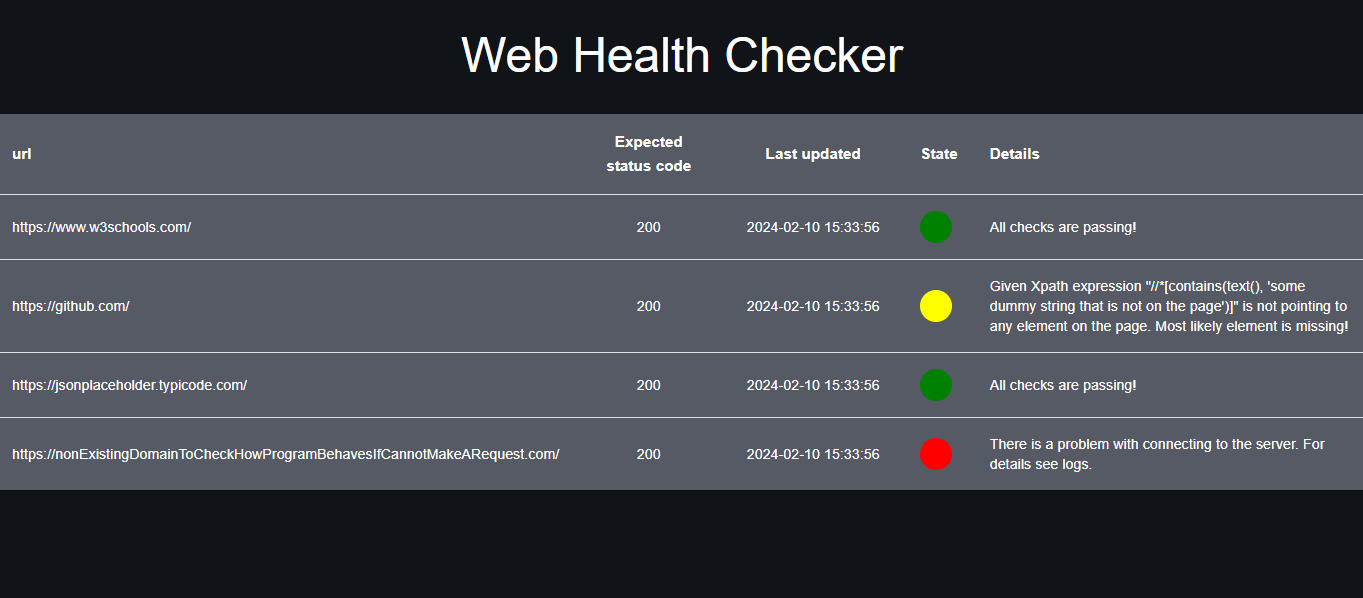
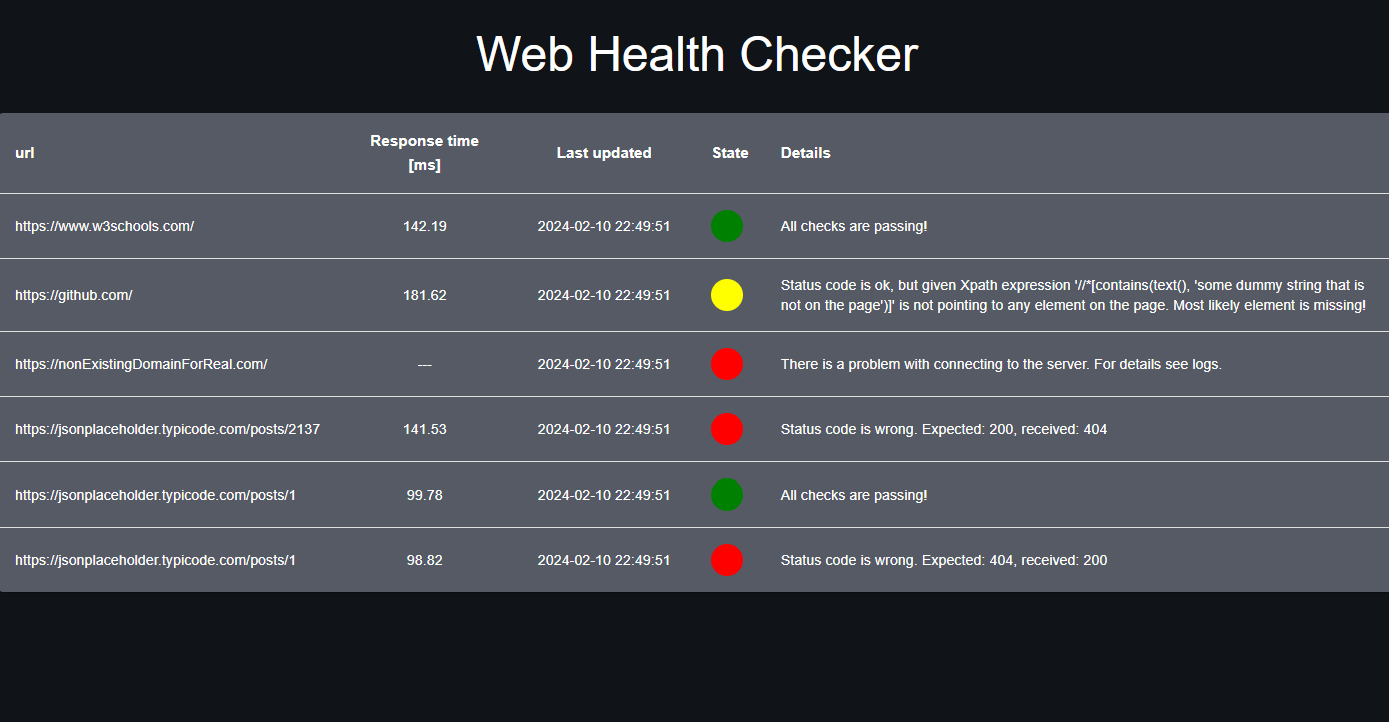
Add response time info

diff --git a/frontend/src/App.tsx b/frontend/src/App.tsx
@@ -80,7 +80,7 @@ function App() {
           <TableHead>
             <TableRow>
               <TableCell sx={tableHeaderStyle}>url</TableCell>
-              <TableCell align="center" sx={tableHeaderStyle}>Expected status code</TableCell>
+              <TableCell align="center" sx={tableHeaderStyle}>Response time [ms]</TableCell>
               <TableCell align="center" sx={tableHeaderStyle}>Last updated</TableCell>
               <TableCell align="left" sx={tableHeaderStyle}>State</TableCell>
               <TableCell align="left" sx={tableHeaderStyle}>Details</TableCell>
@@ -97,7 +97,7 @@ function App() {
                   sx={{ '&:last-child td, &:last-child th': { border: 0 }, color: 'white' }}
                 >
                   <TableCell component="th" scope="row" sx={{color: 'white'}}>{row.url}</TableCell>
-                  <TableCell align="center" sx={{color: 'white'}}>{row.expected_status_code}</TableCell>
+                  <TableCell align="center" sx={{color: 'white'}}>{service ? (service.response_time_miliseconds ? service.response_time_miliseconds : '---') : '---'}</TableCell>
                   <TableCell align="center" sx={{color: 'white', minWidth: '150px'}}>{service ? convertIsoString(service.last_updated) : ''}</TableCell>
                   <TableCell className="stateValueCell" sx={{color: 'white'}}>{service ? getTrafficLight(service.state) : <TrafficLight color="grey"/>}</TableCell>
                   <TableCell align="left" sx={{color: 'white', maxWidth: '600px'}}>{service ? service.details : ''}</TableCell>

diff --git a/backend/src/main.py b/backend/src/main.py
@@ -90,11 +90,12 @@ def sub_task(service_index: int) -> t.Dict[str, t.Any]:
     state = ServiceState(
         index=service_index,
         state=result.state,
+        response_time_miliseconds=round(result.response_time_miliseconds, 2) if result.response_time_miliseconds else None, # ''
         last_updated=dt.datetime.now().isoformat(),
         details=result.message
     )
     services_collection.upsert(state.model_dump(), ServiceQuery.index == service_index)
-    return state.model_dump()
+    return state.model_dump() # ''
 
 @repeat_every(seconds=config.refresh_period_seconds)
 async def main_task() -> None:

diff --git a/backend/src/services/web_health_checker.py b/backend/src/services/web_health_checker.py
@@ -32,7 +32,7 @@ class WebHealthChecker:
                 state=State.YELLOW,
                 response_time_miliseconds=self._get_response_time(res),
                 message=(
-                    f"Status code is ok, but given Xpath expression \"{service.xpath}\" is not "
+                    f"Status code is ok, but given Xpath expression '{service.xpath}' is not "
                     "pointing to any element on the page. Most likely element is missing!"
                 )
             )

diff --git a/backend/src/models/service_state.py b/backend/src/models/service_state.py
@@ -1,5 +1,6 @@
 from pydantic import BaseModel
 from .state import State
+import typing as t
 
 
 class ServiceState(BaseModel):
@@ -10,4 +11,5 @@ class ServiceState(BaseModel):
     index: int
     state: State
     last_updated: str
+    response_time_miliseconds: t.Optional[float] = None
     details: str = ''

diff --git a/README.md b/README.md
@@ -14,7 +14,6 @@ cp -n config_example.yaml config.yaml
 
 TODO:
 - [ ] Logs (use python logging with custom setup)
-- [ ] Measure time (request processing)
 - [ ] Code refactor (back/front), validation, typing etc
 - [ ] docs (readme)
 - [ ] deploy (root level docker compose)
